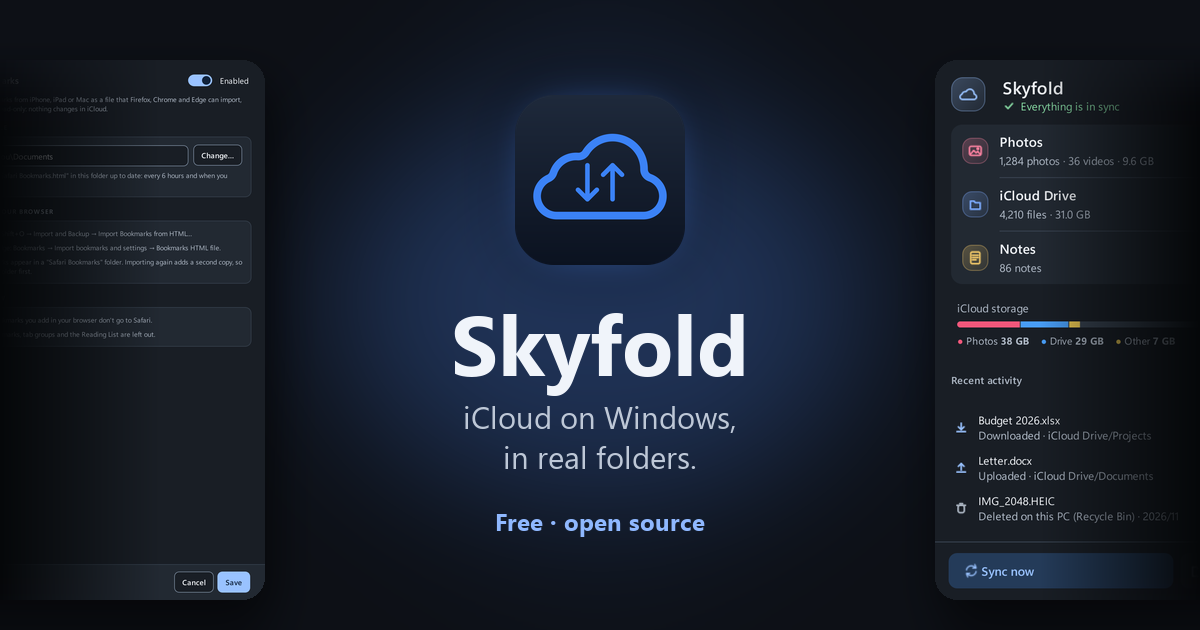
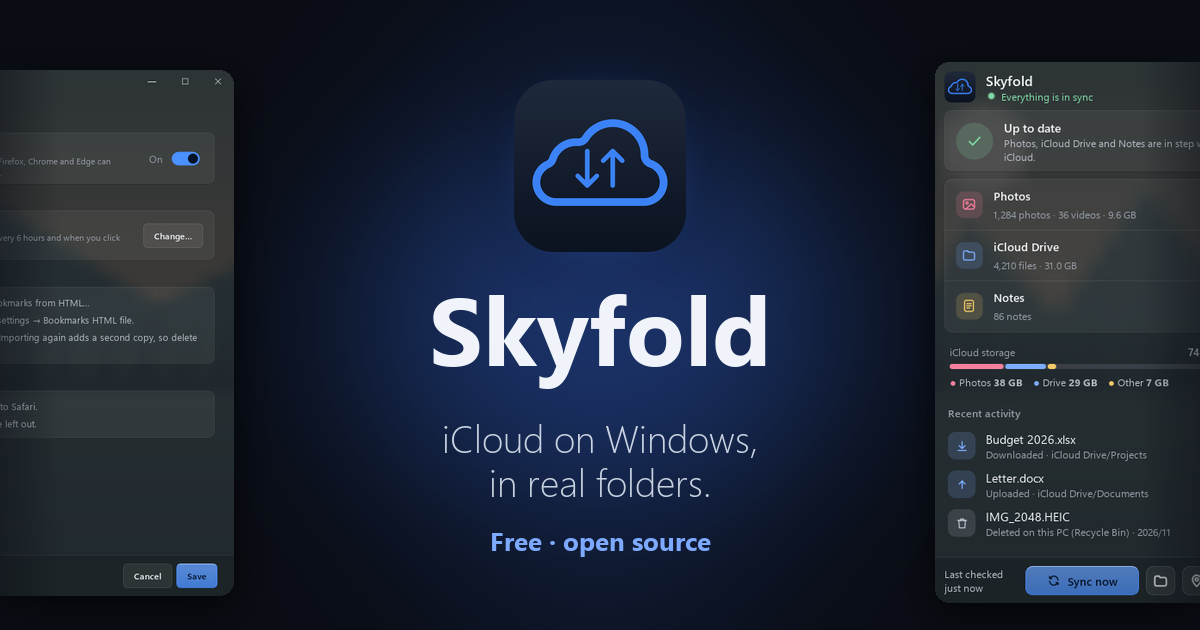
Pictures: the link preview in the 1.1 look; the old Notes.html picture goes
The share picture (website link previews) now shows the 1.1 tray panel
and Settings. The README's picture of the Notes.html browser page was
from before 1.1; the Notes window picture above it shows the notes.

diff --git a/README.md b/README.md
@@ -71,9 +71,6 @@
   <img src="docs/screenshots/settings-bookmarks.png" width="430" alt="Settings: Safari bookmarks for Firefox, Chrome and Edge">
   <img src="docs/screenshots/update.png" width="430" alt="A new version: what's new, and Update now">
 </p>
-<p>
-  <img src="docs/screenshots/notes-index.png" width="880" alt="Notes.html: your Apple Notes as a searchable library in your browser">
-</p>
 
 ## Safari bookmarks in Firefox or Chrome
 
